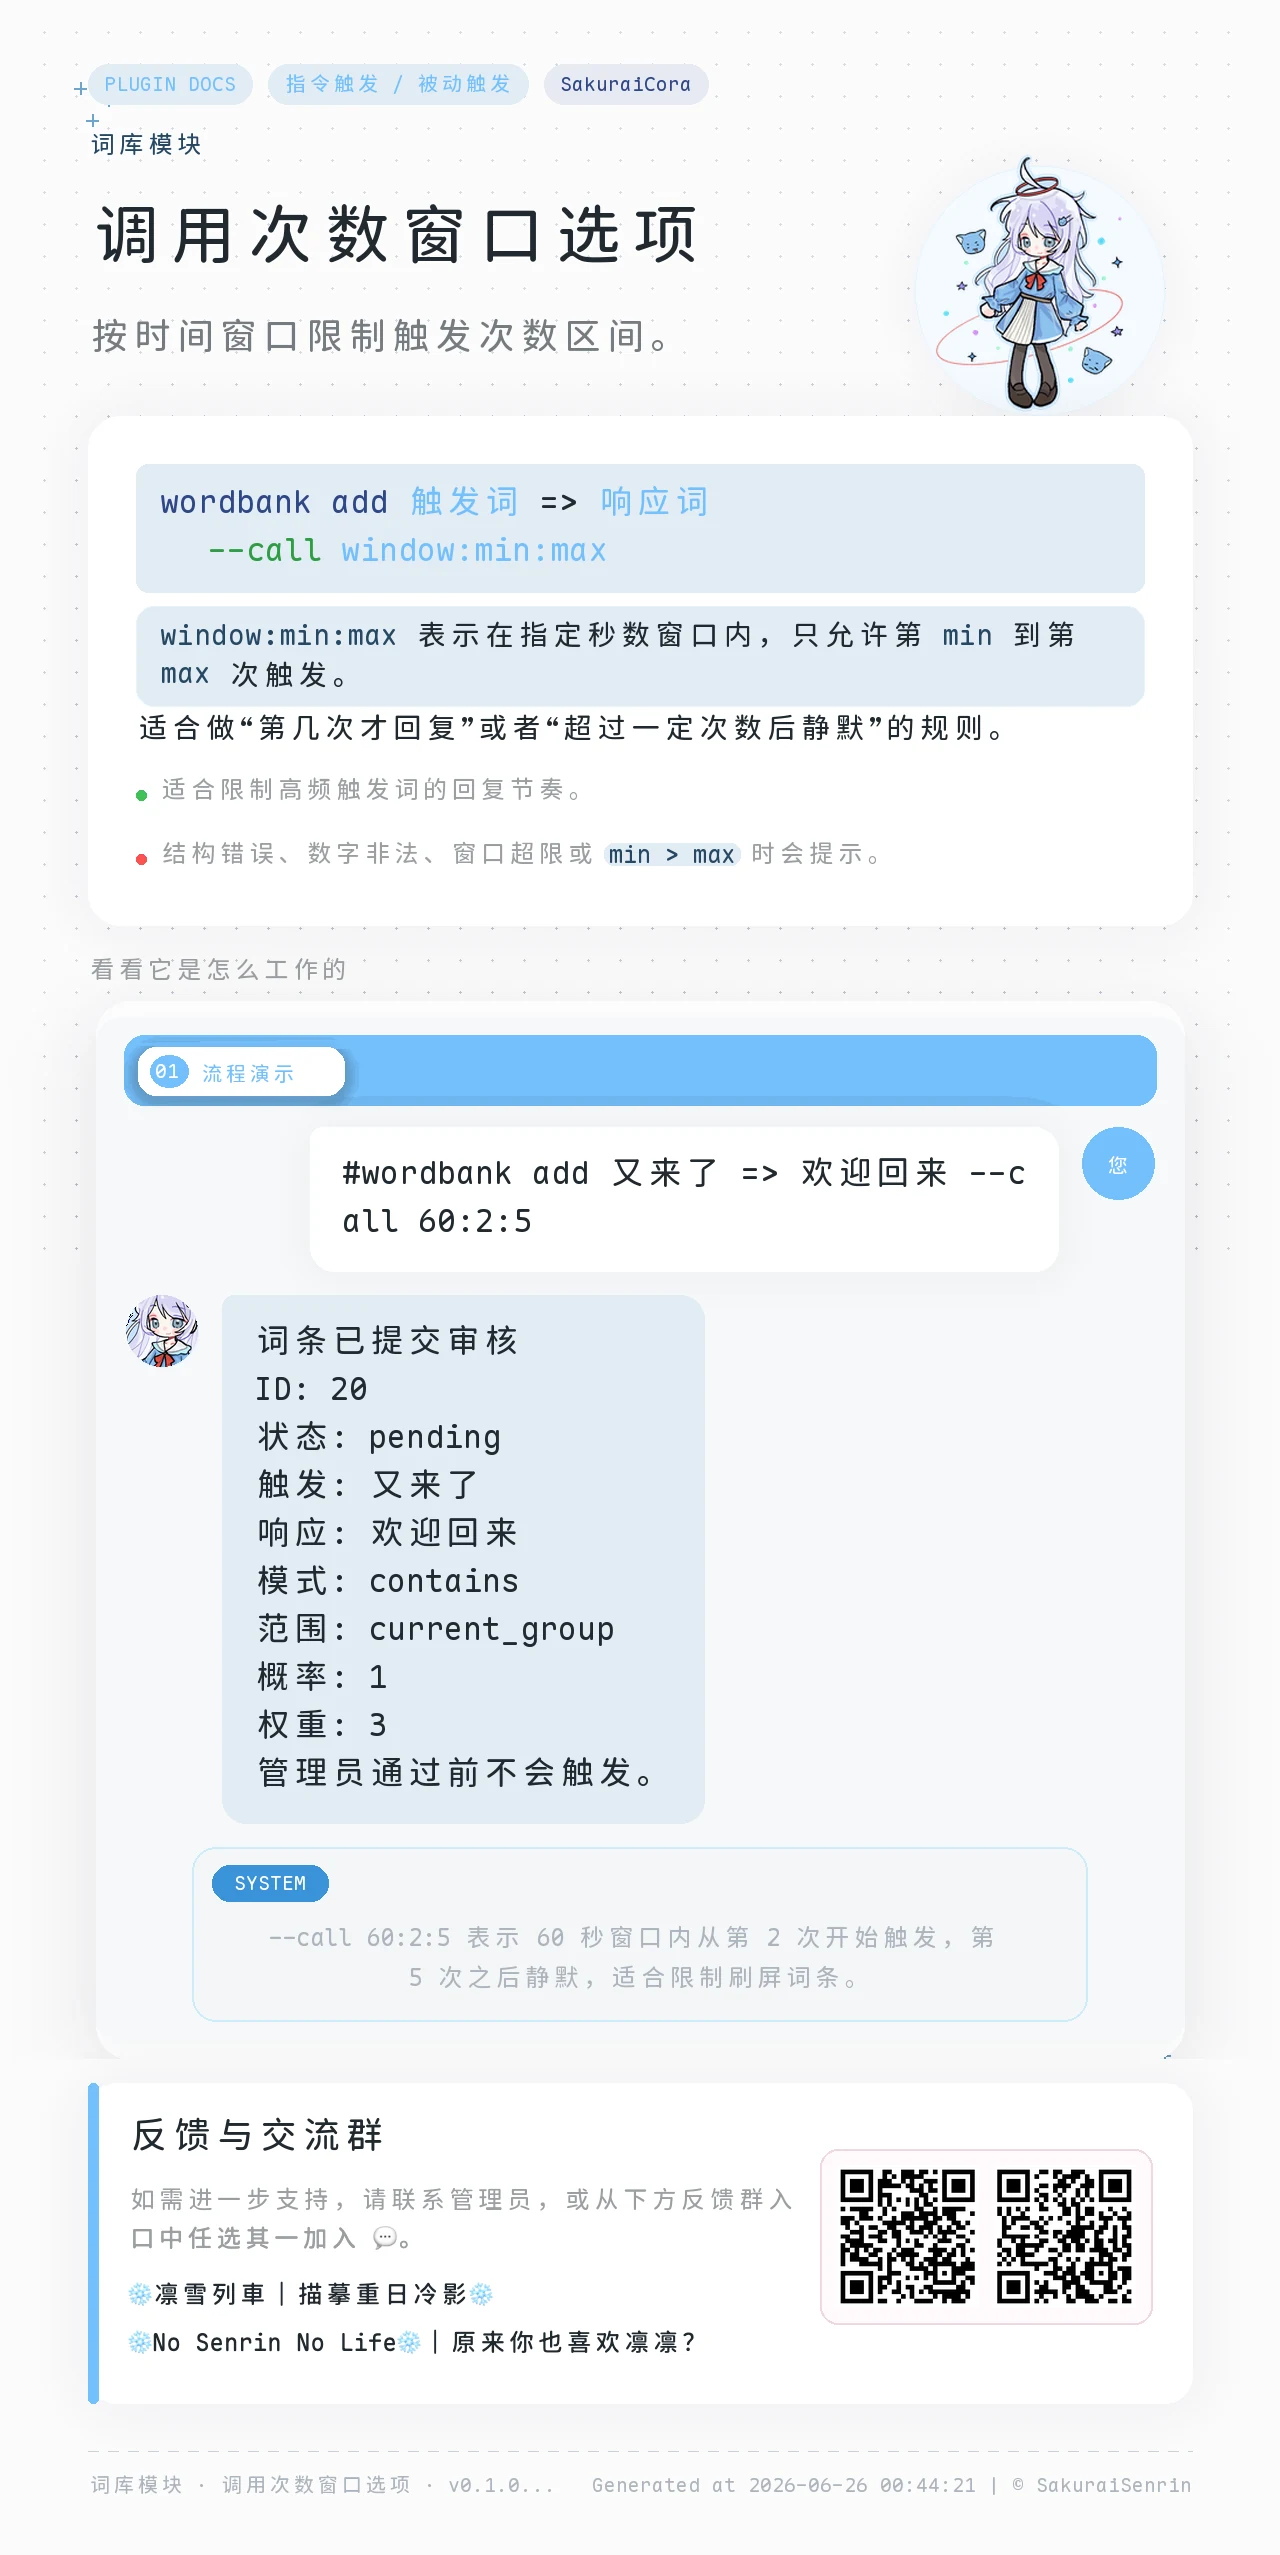
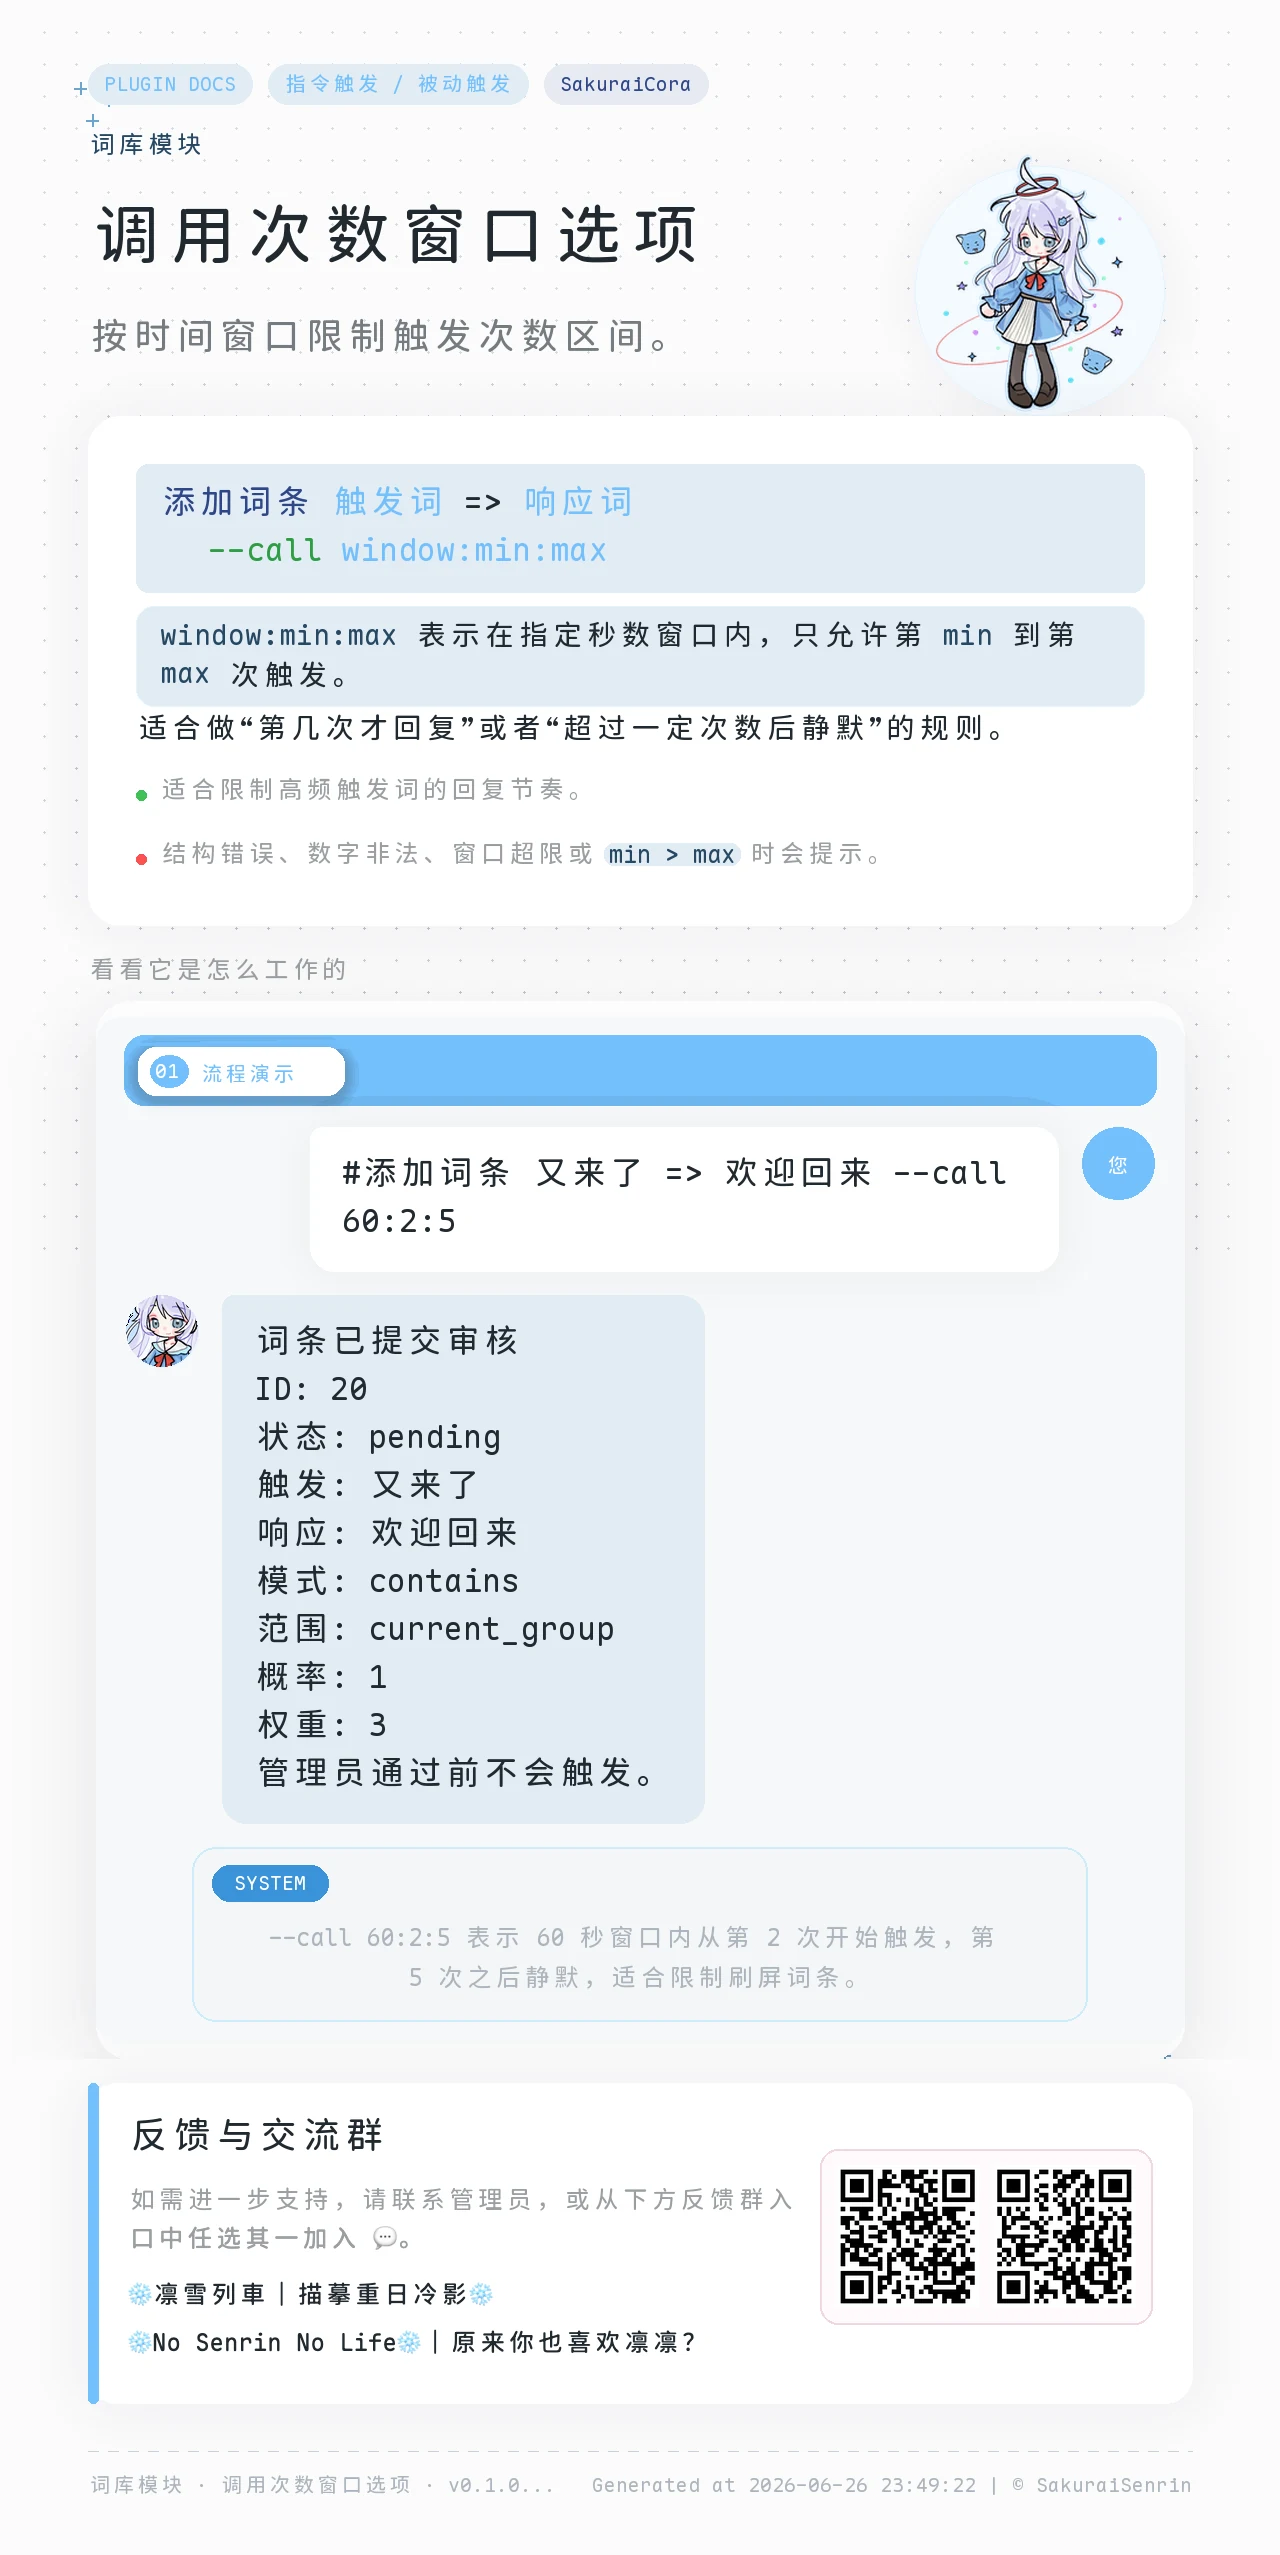
📝 docs(wordbank): 优化快捷入口文档展示

diff --git a/tests/test_plugin_docs_readme_bundle.py b/tests/test_plugin_docs_readme_bundle.py
@@ -739,11 +739,11 @@ def test_wordbank_and_study_readmes_use_interactive_demos() -> None:
 
     assert add.demo_filename == "wordbank-add.webp"
     assert len(add.demo_turns) == 15
-    assert add.demo_turns[0].text == "#wordbank.add"
+    assert add.demo_turns[0].text == "#添加词条"
     assert "审核文档请查看 #help 词库审核" in add.demo_turns[10].text
-    assert "#wordbank add 是这张图喔 [图片]" in add.demo_turns[11].text
+    assert "#添加词条 是这张图喔 [图片]" in add.demo_turns[11].text
     assert "响应: [图片:7]" in add.demo_turns[12].text
-    assert "#wordbank add [图片] => 是这张图喔" in add.demo_turns[13].text
+    assert "#添加词条 [图片] => 是这张图喔" in add.demo_turns[13].text
     assert "触发: [图片:7]" in add.demo_turns[14].text
     assert all(feature.slug != "add-mode" for feature in wordbank.index)
     assert all(feature.slug != "image" for feature in wordbank.index)

diff --git a/tests/test_plugin_docs_render.py b/tests/test_plugin_docs_render.py
@@ -915,9 +915,9 @@ def test_render_plugin_guide_and_copy_text_list_all_visible_features() -> None:
         locale="zh-CN",
     )
     assert "基础添加" in copy_text
-    assert "wordbank add 触发词 => 响应词" in copy_text
+    assert "添加词条 触发词 => 响应词" in copy_text
     assert "查看 demo：" not in copy_text
-    assert "wordbank add 触发词 => 响应词 --scope current_group" in copy_text
+    assert "添加词条 触发词 => 响应词 --scope current_group" in copy_text
     assert "#help 词库模块 add-scope" not in copy_text
     assert "反馈与交流群" in copy_text
 
